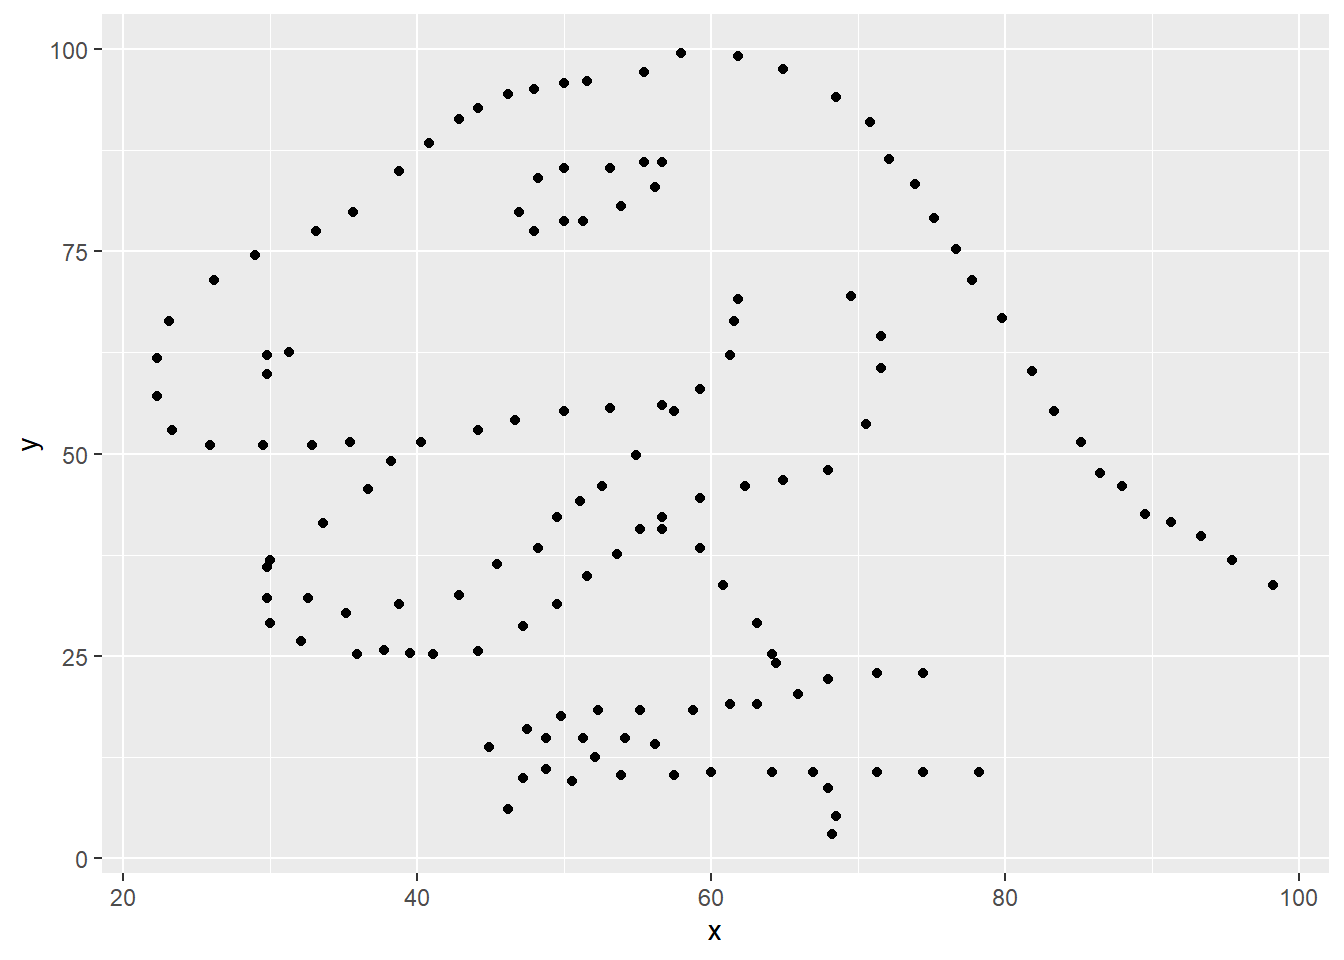
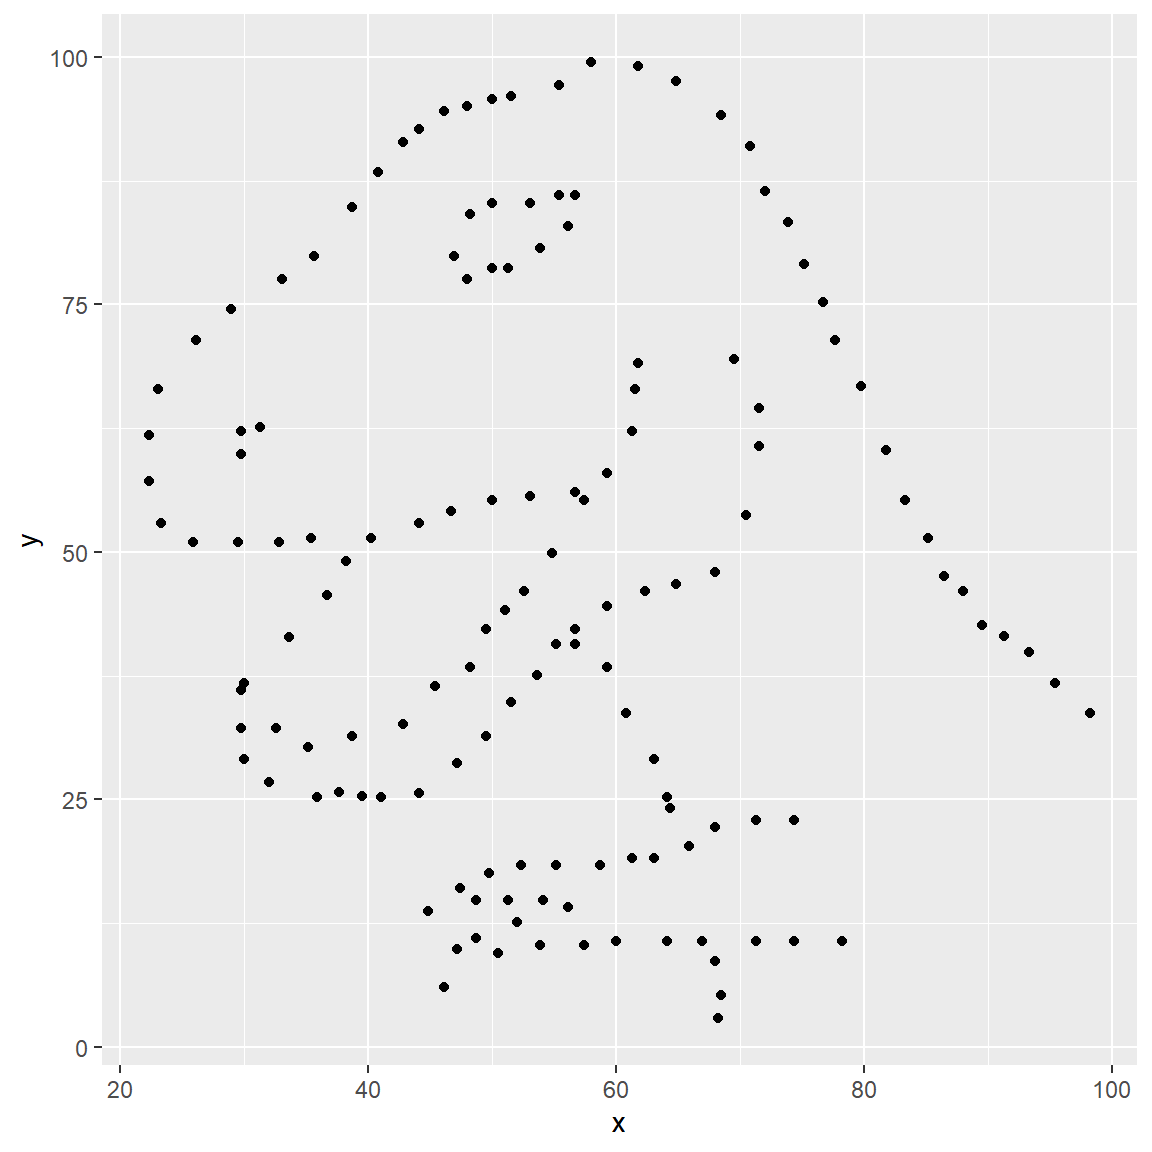
Finished exercise 5 and added themes, figure sizes. Finished Lab 1

diff --git a/lab01-hello-r.html b/lab01-hello-r.html
@@ -18,7 +18,7 @@
 <script src="lab01-hello-r_files/header-attrs/header-attrs.js"></script>
 <script src="lab01-hello-r_files/jquery/jquery-3.6.0.min.js"></script>
 <meta name="viewport" content="width=device-width, initial-scale=1" />
-<link href="lab01-hello-r_files/bootstrap/css/bootstrap.min.css" rel="stylesheet" />
+<link href="lab01-hello-r_files/bootstrap/css/cosmo.min.css" rel="stylesheet" />
 <script src="lab01-hello-r_files/bootstrap/js/bootstrap.min.js"></script>
 <script src="lab01-hello-r_files/bootstrap/shim/html5shiv.min.js"></script>
 <script src="lab01-hello-r_files/bootstrap/shim/respond.min.js"></script>
@@ -32,8 +32,6 @@
        code {color: inherit; background-color: rgba(0, 0, 0, 0.04);}
        pre:not([class]) { background-color: white }</style>
 <script src="lab01-hello-r_files/navigation/tabsets.js"></script>
-<link href="lab01-hello-r_files/highlightjs/default.css" rel="stylesheet" />
-<script src="lab01-hello-r_files/highlightjs/highlight.js"></script>
 
 <style type="text/css">
   code{white-space: pre-wrap;}
@@ -44,18 +42,109 @@
   ul.task-list{list-style: none;}
     </style>
 
-<style type="text/css">code{white-space: pre;}</style>
-<script type="text/javascript">
-if (window.hljs) {
-  hljs.configure({languages: []});
-  hljs.initHighlightingOnLoad();
-  if (document.readyState && document.readyState === "complete") {
-    window.setTimeout(function() { hljs.initHighlighting(); }, 0);
+
+
+<style type="text/css">
+  code {
+    white-space: pre;
   }
+  .sourceCode {
+    overflow: visible;
+  }
+</style>
+<style type="text/css" data-origin="pandoc">
+pre > code.sourceCode { white-space: pre; position: relative; }
+pre > code.sourceCode > span { display: inline-block; line-height: 1.25; }
+pre > code.sourceCode > span:empty { height: 1.2em; }
+.sourceCode { overflow: visible; }
+code.sourceCode > span { color: inherit; text-decoration: inherit; }
+div.sourceCode { margin: 1em 0; }
+pre.sourceCode { margin: 0; }
+@media screen {
+div.sourceCode { overflow: auto; }
 }
+@media print {
+pre > code.sourceCode { white-space: pre-wrap; }
+pre > code.sourceCode > span { text-indent: -5em; padding-left: 5em; }
+}
+pre.numberSource code
+  { counter-reset: source-line 0; }
+pre.numberSource code > span
+  { position: relative; left: -4em; counter-increment: source-line; }
+pre.numberSource code > span > a:first-child::before
+  { content: counter(source-line);
+    position: relative; left: -1em; text-align: right; vertical-align: baseline;
+    border: none; display: inline-block;
+    -webkit-touch-callout: none; -webkit-user-select: none;
+    -khtml-user-select: none; -moz-user-select: none;
+    -ms-user-select: none; user-select: none;
+    padding: 0 4px; width: 4em;
+    background-color: #2a211c;
+    color: #bdae9d;
+  }
+pre.numberSource { margin-left: 3em; border-left: 1px solid #bdae9d;  padding-left: 4px; }
+div.sourceCode
+  { color: #bdae9d; background-color: #2a211c; }
+@media screen {
+pre > code.sourceCode > span > a:first-child::before { text-decoration: underline; }
+}
+code span.al { color: #ffff00; } /* Alert */
+code span.an { color: #0066ff; font-weight: bold; font-style: italic; } /* Annotation */
+code span.at { } /* Attribute */
+code span.bn { color: #44aa43; } /* BaseN */
+code span.bu { } /* BuiltIn */
+code span.cf { color: #43a8ed; font-weight: bold; } /* ControlFlow */
+code span.ch { color: #049b0a; } /* Char */
+code span.cn { } /* Constant */
+code span.co { color: #0066ff; font-weight: bold; font-style: italic; } /* Comment */
+code span.do { color: #0066ff; font-style: italic; } /* Documentation */
+code span.dt { text-decoration: underline; } /* DataType */
+code span.dv { color: #44aa43; } /* DecVal */
+code span.er { color: #ffff00; font-weight: bold; } /* Error */
+code span.ex { } /* Extension */
+code span.fl { color: #44aa43; } /* Float */
+code span.fu { color: #ff9358; font-weight: bold; } /* Function */
+code span.im { } /* Import */
+code span.in { color: #0066ff; font-weight: bold; font-style: italic; } /* Information */
+code span.kw { color: #43a8ed; font-weight: bold; } /* Keyword */
+code span.op { } /* Operator */
+code span.pp { font-weight: bold; } /* Preprocessor */
+code span.sc { color: #049b0a; } /* SpecialChar */
+code span.ss { color: #049b0a; } /* SpecialString */
+code span.st { color: #049b0a; } /* String */
+code span.va { } /* Variable */
+code span.vs { color: #049b0a; } /* VerbatimString */
+code span.wa { color: #ffff00; font-weight: bold; } /* Warning */
+
+</style>
+<script>
+// apply pandoc div.sourceCode style to pre.sourceCode instead
+(function() {
+  var sheets = document.styleSheets;
+  for (var i = 0; i < sheets.length; i++) {
+    if (sheets[i].ownerNode.dataset["origin"] !== "pandoc") continue;
+    try { var rules = sheets[i].cssRules; } catch (e) { continue; }
+    var j = 0;
+    while (j < rules.length) {
+      var rule = rules[j];
+      // check if there is a div.sourceCode rule
+      if (rule.type !== rule.STYLE_RULE || rule.selectorText !== "div.sourceCode") {
+        j++;
+        continue;
+      }
+      var style = rule.style.cssText;
+      // check if color or background-color is set
+      if (rule.style.color === '' && rule.style.backgroundColor === '') {
+        j++;
+        continue;
+      }
+      // replace div.sourceCode by a pre.sourceCode rule
+      sheets[i].deleteRule(j);
+      sheets[i].insertRule('pre.sourceCode{' + style + '}', j);
+    }
+  }
+})();
 </script>
-
-
 
 
 
@@ -205,12 +294,12 @@ dataset. Then, calculate the correlation coefficient between
 <p> </p>
 <p><strong>We pipe and filter the appropriate dataset and assign it to a
 variable.</strong></p>
-<pre class="r"><code>dino_data = datasaurus_dozen %&gt;%
-  filter(dataset == &quot;dino&quot;)</code></pre>
+<div class="sourceCode" id="cb1"><pre class="sourceCode r"><code class="sourceCode r"><span id="cb1-1"><a href="#cb1-1" aria-hidden="true" tabindex="-1"></a>dino_data <span class="ot">=</span> datasaurus_dozen <span class="sc">%&gt;%</span></span>
+<span id="cb1-2"><a href="#cb1-2" aria-hidden="true" tabindex="-1"></a>  <span class="fu">filter</span>(dataset <span class="sc">==</span> <span class="st">&quot;dino&quot;</span>)</span></code></pre></div>
 <p><strong>We plot the data as a scatter point plot </strong></p>
-<pre class="r"><code>ggplot(data = dino_data, mapping = aes(x = x, y = y)) +
-  geom_point()</code></pre>
-<p><img src="lab01-hello-r_files/figure-html/unnamed-chunk-3-1.png" width="672" /></p>
+<div class="sourceCode" id="cb2"><pre class="sourceCode r"><code class="sourceCode r"><span id="cb2-1"><a href="#cb2-1" aria-hidden="true" tabindex="-1"></a><span class="fu">ggplot</span>(<span class="at">data =</span> dino_data, <span class="at">mapping =</span> <span class="fu">aes</span>(<span class="at">x =</span> x, <span class="at">y =</span> y)) <span class="sc">+</span></span>
+<span id="cb2-2"><a href="#cb2-2" aria-hidden="true" tabindex="-1"></a>  <span class="fu">geom_point</span>()</span></code></pre></div>
+<p><img src="lab01-hello-r_files/figure-html/unnamed-chunk-3-1.png" width="576" /></p>
 <p><strong>Using the following chunk of code we calculate the
 correlation coefficient, <span class="math inline">\(r_{d}\)</span>, to
 be <span class="math inline">\(-0.0645\)</span> </strong></p>
@@ -230,11 +319,11 @@ this dataset. How does this value compare to the <code>r</code> of
 <p> </p>
 <p><strong>We answer this similarly to the question above by simply
 changing datasets.</strong></p>
-<pre class="r"><code>star_data = datasaurus_dozen %&gt;%
-  filter(dataset == &quot;star&quot;)</code></pre>
-<pre class="r"><code>ggplot(data = star_data, mapping = aes(x = x, y = y)) +
-  geom_point()</code></pre>
-<p><img src="lab01-hello-r_files/figure-html/unnamed-chunk-5-1.png" width="672" />
+<div class="sourceCode" id="cb4"><pre class="sourceCode r"><code class="sourceCode r"><span id="cb4-1"><a href="#cb4-1" aria-hidden="true" tabindex="-1"></a>star_data <span class="ot">=</span> datasaurus_dozen <span class="sc">%&gt;%</span></span>
+<span id="cb4-2"><a href="#cb4-2" aria-hidden="true" tabindex="-1"></a>  <span class="fu">filter</span>(dataset <span class="sc">==</span> <span class="st">&quot;star&quot;</span>)</span></code></pre></div>
+<div class="sourceCode" id="cb5"><pre class="sourceCode r"><code class="sourceCode r"><span id="cb5-1"><a href="#cb5-1" aria-hidden="true" tabindex="-1"></a><span class="fu">ggplot</span>(<span class="at">data =</span> star_data, <span class="at">mapping =</span> <span class="fu">aes</span>(<span class="at">x =</span> x, <span class="at">y =</span> y)) <span class="sc">+</span></span>
+<span id="cb5-2"><a href="#cb5-2" aria-hidden="true" tabindex="-1"></a>  <span class="fu">geom_point</span>()</span></code></pre></div>
+<p><img src="lab01-hello-r_files/figure-html/unnamed-chunk-5-1.png" width="960" />
  </p>
 <p><strong>we calculate the correlation coefficient , <span
 class="math inline">\(r_{s}\)</span>, to be <span
@@ -257,11 +346,11 @@ compare to the <code>r</code> of <code>dino</code>?</h4>
 <p> </p>
 <p><strong>We apply the same methods as in the previous
 exercises.</strong></p>
-<pre class="r"><code>circle_data = datasaurus_dozen %&gt;%
-  filter(dataset == &quot;circle&quot;)</code></pre>
-<pre class="r"><code>ggplot(data = circle_data, mapping = aes(x = x, y = y)) +
-  geom_point()</code></pre>
-<p><img src="lab01-hello-r_files/figure-html/unnamed-chunk-7-1.png" width="672" />
+<div class="sourceCode" id="cb6"><pre class="sourceCode r"><code class="sourceCode r"><span id="cb6-1"><a href="#cb6-1" aria-hidden="true" tabindex="-1"></a>circle_data <span class="ot">=</span> datasaurus_dozen <span class="sc">%&gt;%</span></span>
+<span id="cb6-2"><a href="#cb6-2" aria-hidden="true" tabindex="-1"></a>  <span class="fu">filter</span>(dataset <span class="sc">==</span> <span class="st">&quot;circle&quot;</span>)</span></code></pre></div>
+<div class="sourceCode" id="cb7"><pre class="sourceCode r"><code class="sourceCode r"><span id="cb7-1"><a href="#cb7-1" aria-hidden="true" tabindex="-1"></a><span class="fu">ggplot</span>(<span class="at">data =</span> circle_data, <span class="at">mapping =</span> <span class="fu">aes</span>(<span class="at">x =</span> x, <span class="at">y =</span> y)) <span class="sc">+</span></span>
+<span id="cb7-2"><a href="#cb7-2" aria-hidden="true" tabindex="-1"></a>  <span class="fu">geom_point</span>()</span></code></pre></div>
+<p><img src="lab01-hello-r_files/figure-html/unnamed-chunk-7-1.png" width="960" />
  </p>
 <pre><code>dino_data %&gt;%
   summarize(r = cor(x, y))</code></pre>
@@ -278,52 +367,22 @@ id="finally-lets-plot-all-datasets-at-once.-in-order-to-do-this-we-will-make-use
 class="section level4">
 <h4>5. Finally, let’s plot all datasets at once. In order to do this we
 will make use of facetting.</h4>
-<pre class="r"><code>ggplot(datasaurus_dozen, aes(x = x, y = y, color = dataset))+
-  geom_point()+
-  facet_wrap(~ dataset, ncol = 3) +
-  theme(legend.position = &quot;none&quot;)</code></pre>
+<div class="sourceCode" id="cb9"><pre class="sourceCode r"><code class="sourceCode r"><span id="cb9-1"><a href="#cb9-1" aria-hidden="true" tabindex="-1"></a><span class="fu">ggplot</span>(datasaurus_dozen, <span class="fu">aes</span>(<span class="at">x =</span> x, <span class="at">y =</span> y, <span class="at">color =</span> dataset))<span class="sc">+</span></span>
+<span id="cb9-2"><a href="#cb9-2" aria-hidden="true" tabindex="-1"></a>  <span class="fu">geom_point</span>()<span class="sc">+</span></span>
+<span id="cb9-3"><a href="#cb9-3" aria-hidden="true" tabindex="-1"></a>  <span class="fu">facet_wrap</span>(<span class="sc">~</span> dataset, <span class="at">ncol =</span> <span class="dv">3</span>) <span class="sc">+</span></span>
+<span id="cb9-4"><a href="#cb9-4" aria-hidden="true" tabindex="-1"></a>  <span class="fu">theme</span>(<span class="at">legend.position =</span> <span class="st">&quot;none&quot;</span>)</span></code></pre></div>
 <p>And we can use the <code>group_by</code> function to generate all the
 summary correlation coefficients.</p>
-<pre class="r"><code>datasaurus_dozen %&gt;%
-  group_by(dataset) %&gt;%
-  summarize(r = cor(x, y)) %&gt;%
-  print(13)</code></pre>
+<div class="sourceCode" id="cb10"><pre class="sourceCode r"><code class="sourceCode r"><span id="cb10-1"><a href="#cb10-1" aria-hidden="true" tabindex="-1"></a>datasaurus_dozen <span class="sc">%&gt;%</span></span>
+<span id="cb10-2"><a href="#cb10-2" aria-hidden="true" tabindex="-1"></a>  <span class="fu">group_by</span>(dataset) <span class="sc">%&gt;%</span></span>
+<span id="cb10-3"><a href="#cb10-3" aria-hidden="true" tabindex="-1"></a>  <span class="fu">summarize</span>(<span class="at">r =</span> <span class="fu">cor</span>(x, y)) <span class="sc">%&gt;%</span></span>
+<span id="cb10-4"><a href="#cb10-4" aria-hidden="true" tabindex="-1"></a>  <span class="fu">print</span>(<span class="dv">13</span>)</span></code></pre></div>
 <p>You’re done with the data analysis exercises, but we’d like you to do
 two more things:</p>
-<ul>
-<li><strong>Resize your figures:</strong></li>
-</ul>
-<p>Click on the gear icon in on top of the R Markdown document, and
-select “Output Options…” in the dropdown menu. In the pop up dialogue
-box go to the Figures tab and change the height and width of the
-figures, and hit OK when done. Then, knit your document and see how you
-like the new sizes. Change and knit again and again until you’re happy
-with the figure sizes. Note that these values get saved in the YAML.</p>
-<p>You can also use different figure sizes for different figures. To do
-so click on the gear icon within the chunk where you want to make a
-change. Turn on “Use custom figure size” and enter the size for this
-figure. Changing the figure sizes added new options to these chunks:
-<code>fig.width</code> and <code>fig.height</code>. You can change them
-by defining different values directly in your R Markdown document as
-well with code like this:</p>
-<pre><code>knitr::opts_chunk(fig.width=3, fig.height=3)</code></pre>
-<ul>
-<li><strong>Change the look of your report:</strong></li>
-</ul>
-<p>Once again click on the gear icon in on top of the R Markdown
-document, and select “Output Options…” in the dropdown menu. In the
-General tab of the pop up dialogue box try out different Syntax
-highlighting and theme options. Hit OK and knit your document to see how
-it looks. Play around with these until you’re happy with the look.</p>
-<p><em>Yay, you’re done! Commit all remaining changes, use the commit
-message “Done with Lab 1!”, and push. Before you wrap up the assignment,
-make sure all documents are updated on your GitHub repo.</em></p>
-</div>
-<div id="rubric-15-points-possible" class="section level2">
-<h2>Rubric (15 points possible)</h2>
-<p>10 points if code and descriptions are complete for all questions. 5
-points for &gt;= five commits with informative messages made to the
-repo.</p>
+<p><strong>I purposely removed the print command to display the whole
+table</strong></p>
+<p><strong>I changed the global figure sizes and customized the dino
+figure to be slightly smaller. I also changed the theme.</strong></p>
 </div>
 </div>
 
